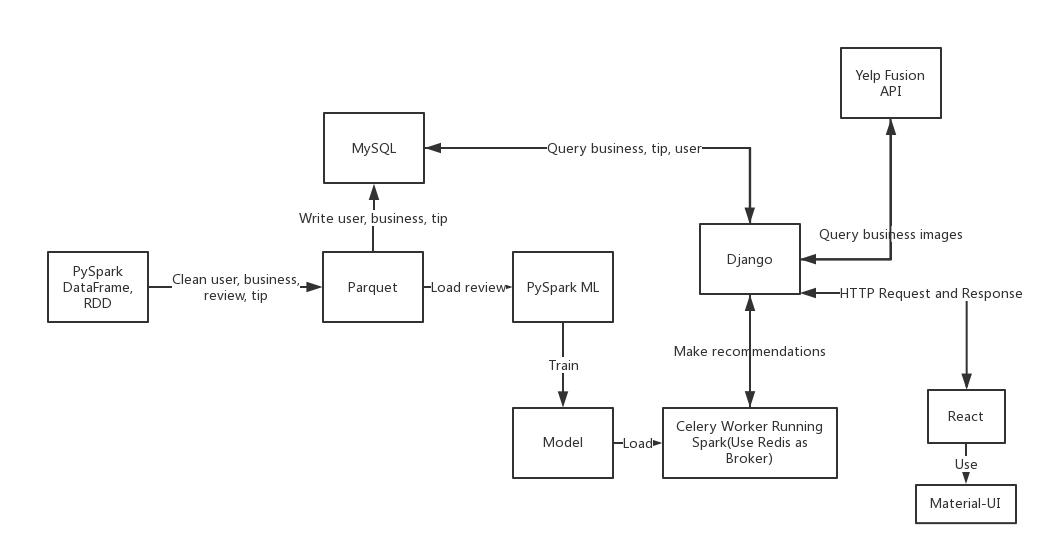
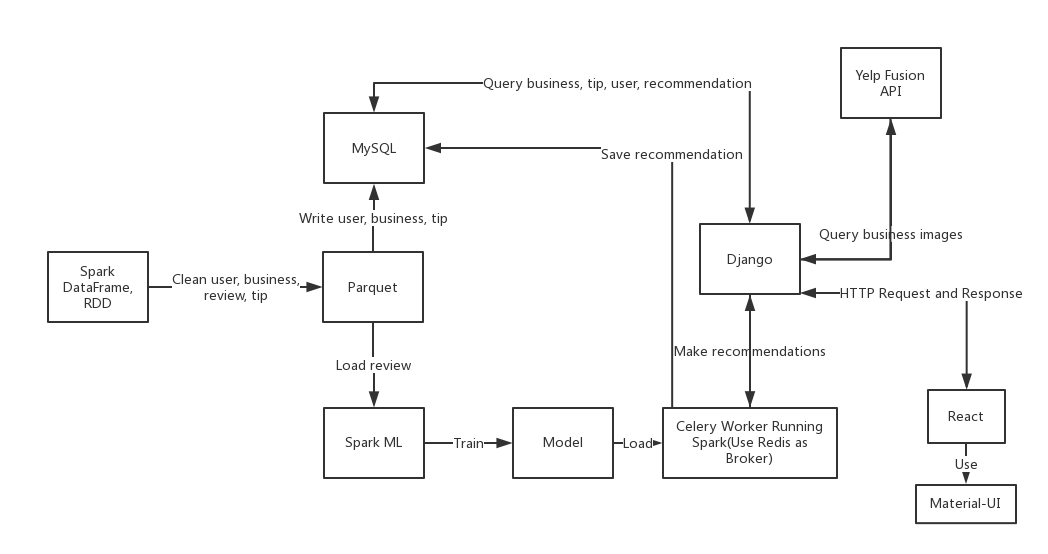
edits README

diff --git a/report.md b/report.md
@@ -22,15 +22,20 @@ However, Content-Based Filtering does have limitations, it can only recommend re
 
 Therefore I used Collaborative Filtering to do recommendations for restaurants using Yelp's 7.35 gigabytes uncompressed data.
 
-challenges
-
-Collaborative filtering is commonly used for recommender systems. These techniques aim to fill in the missing entries of a user-item association matrix. spark.ml currently supports model-based collaborative filtering, in which users and products are described by a small set of latent factors that can be used to predict missing entries. spark.ml uses the alternating least squares (ALS) algorithm to learn these latent factors. The implementation in spark.ml has the following parameters:
+Challenges: 
 
 
 
 ## Methodology
 
 What is the problem that you are trying to solve? Briefly explain which tool(s)/technique(s) were used for which task and why you chose to implement that way.
+
+To prepare reviews data for Machine Learning model training, I have to clean data to meet my requirement. I only need business which has review_count, is open and is a restaurant, so I first cleaned it. I need reviews which are commented on this business I just generated. I need users which have reviews on restaurants. This was done in `clean_data_to_parquet.py`. I used PySpark DataFrame and RDD, and save cleaned data in Parquet. I used PySpark because spark cluster works well with big data, I did it in ts.sfucloud.ca. I used Parquet because it's fast to save and load parquet, and parquet uses less space.
+
+To do recommendations, I chose Spark ML due to the scalability it has.
+
+To 
+
 
 
 
@@ -39,15 +44,10 @@ What is the problem that you are trying to solve? Briefly explain which tool(s)/
 
 What problems did you encounter while attacking the problem? How did you solve them?
 
-### Getting the data
-
-I downloaded Yelp Dataset from https://www.yelp.com/dataset/download.
-
 ### ETL
 
 Since Spark's DataFrame based ml library I used only supports numeric types for the user and item id columns, but all the id in Yelp Dataset are string like 'wKlH90YB5RYFvJ8N3pstVw', so I mapped business_id, user_id, and review_id to int values using `zipWithIndex()`.
 
-I only need business which has review_count, is open and is a restaurant, so I first cleaned it. I need reviews which are commented on this business I just generated. I need users which have reviews on restaurants. This was done in `clean_data_to_parquet.py`.
 
 In `write_parquet_to_mysql.py` I encountered a critical problem, `Duplicate entry '94157' for key 'PRIMARY'`. The reason is when business_id is 0, since MySQL treats 0 specially as Null, it will insert as a random business_id like 94157, which conflicts the row with business_id 94157. And `zipWithIndex()` will index from 0. My solution is to make business_id start from 1 by `.zipWithIndex().map(lambda x: (x[0], x[1]+1))`.
 
@@ -152,14 +152,7 @@ You will likely be giving yourself 0 in some of these categories: that's perfect
 
 This is also due Friday December 07 2018 and submitted to Project as a PDF or a URL to HTML (only one of those is necessary).
 
-<!-- ## Screenshots -->
 
-<!-- <img src="/home/joanna/Pictures/CodePic/big-data-proj/1.png" alt="">
-<img src="/home/joanna/Pictures/CodePic/big-data-proj/2.png" alt="">
-<img src="/home/joanna/Pictures/CodePic/big-data-proj/6.png" alt="">
-<img src="/home/joanna/Pictures/CodePic/big-data-proj/4.png" alt="">
-<img src="/home/joanna/Pictures/CodePic/big-data-proj/5.png" alt="">
- -->
 
 ## Reference
 
